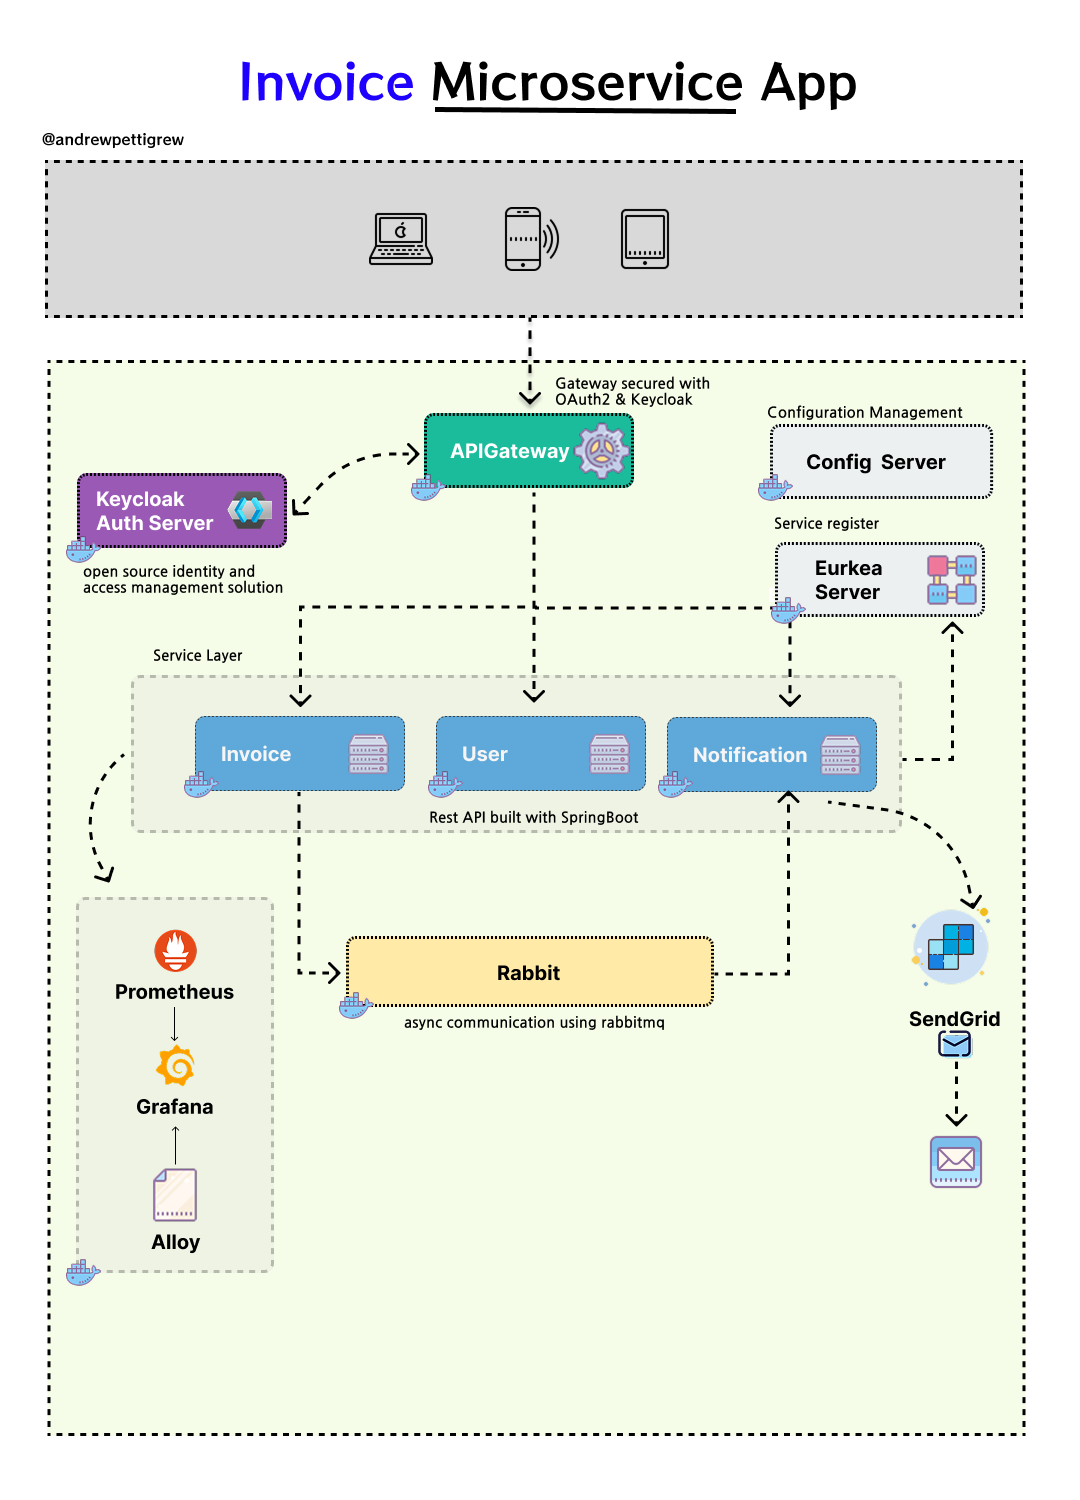
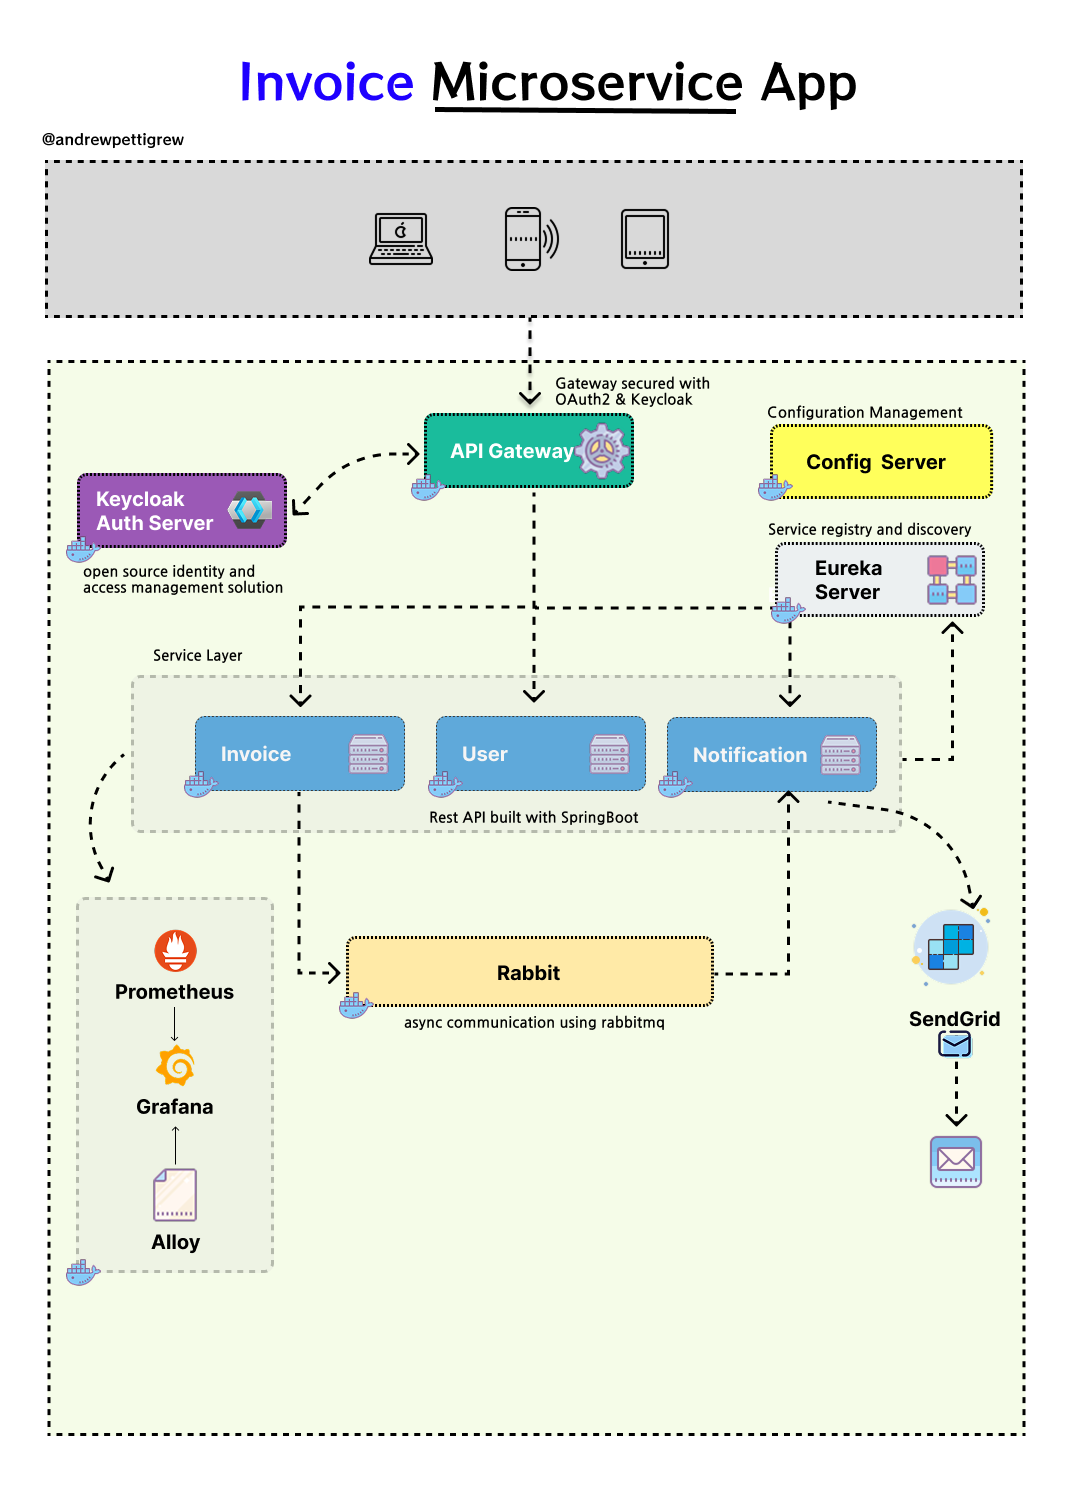
feat: implement the login route for the users

Changed region(s): [[0.7028, 0.276, 0.9167, 0.368], [0.4583, 0.276, 0.5194, 0.3067]]

diff --git a/user/src/main/java/com/apettigrew/user/services/UserService.java b/user/src/main/java/com/apettigrew/user/services/UserService.java
@@ -1,6 +1,7 @@
 package com.apettigrew.user.services;
 
 import com.apettigrew.user.config.KeycloakConfigProperties;
+import com.apettigrew.user.dtos.KeycloakTokenDto;
 import com.apettigrew.user.dtos.UserDto;
 import com.apettigrew.user.dtos.UserRegisterDto;
 import jakarta.ws.rs.core.Response;
@@ -16,7 +17,11 @@ import org.slf4j.LoggerFactory;
 import org.springframework.beans.factory.annotation.Autowired;
 import org.springframework.beans.factory.annotation.Qualifier;
 import org.springframework.data.domain.Pageable;
+import org.springframework.http.MediaType;
 import org.springframework.stereotype.Service;
+import org.springframework.util.LinkedMultiValueMap;
+import org.springframework.util.MultiValueMap;
+import org.springframework.web.client.RestClient;
 
 import java.util.ArrayList;
 import java.util.List;
@@ -28,13 +33,38 @@ public class UserService {
 
     private final Keycloak keycloak;
     private final KeycloakConfigProperties keycloakConfigProperties; // Inject config properties
+    private final RestClient restClient;
 
     @Autowired
     @Qualifier("skipNullModelMapper")
     private ModelMapper modelMapper;
 
+    public KeycloakTokenDto login(String username, String password) {
+
+        String tokenUrl = keycloakConfigProperties.getServerUrl() + "/realms/" + keycloakConfigProperties.getRealm() + "/protocol/openid-connect/token";
+
+        MultiValueMap<String, String> map = new LinkedMultiValueMap<>();
+        map.add("grant_type", "password");
+        map.add("client_id", keycloakConfigProperties.getAppClientId());
+        map.add("client_secret", keycloakConfigProperties.getAppClientSecret());
+        map.add("username", username);
+        map.add("password", password);
+        map.add("scope","openid email profile");
+        try {
+            var response =  restClient.post()
+                    .uri(tokenUrl)
+                    .contentType(MediaType.APPLICATION_FORM_URLENCODED)
+                    .body(map) // Send the MultiValueMap directly
+                    .retrieve()
+                    .toEntity(KeycloakTokenDto.class);
+
+            return response.getBody();
+        } catch (Exception e) {
+            throw new RuntimeException(e);
+        }
+    }
+
     public UserDto getKeycloakUserbyId(String id) {
-//        Keycloak keycloak = KeycloakConfig.getKeycloakInstance();
         UserRepresentation userRep = keycloak.realm(keycloakConfigProperties.getRealm()).users().get(id).toRepresentation();
         return modelMapper.map(userRep, UserDto.class);
     }
@@ -42,8 +72,6 @@ public class UserService {
     public List<UserDto> getAllUsers(Pageable pageable) {
         int first = (int) pageable.getOffset();
         int max = pageable.getPageSize();
-
-//        Keycloak keycloak = KeycloakConfig.getKeycloakInstance();
         List<UserRepresentation> userRepresentations = keycloak.realm(keycloakConfigProperties.getRealm()).users().list(first, max);
 
         List<UserDto> users = new ArrayList<>();
@@ -70,12 +98,11 @@ public class UserService {
         creds.add(cred);
         userRep.setCredentials(creds);
 
-//        Keycloak keycloak = KeycloakConfig.getKeycloakInstance();
         try  {
             Response response = keycloak.realm(keycloakConfigProperties.getRealm()).users().create(userRep);
             String userId = CreatedResponseUtil.getCreatedId(response);
             UserResource userResource = keycloak.realm(keycloakConfigProperties.getRealm()).users().get(userId);
-        }catch(Exception e){
+        } catch(Exception e){
             logger.error(e.getMessage());
             throw new RuntimeException(e.getMessage());
         }
@@ -83,13 +110,11 @@ public class UserService {
     }
 
     public UserDto getUserById(String id){
-//        Keycloak keycloak = KeycloakConfig.getKeycloakInstance();
         UserRepresentation userRep = keycloak.realm(keycloakConfigProperties.getRealm()).users().get(id).toRepresentation();
         return modelMapper.map(userRep, UserDto.class);
     }
 
     public UserDto updateUser(String id,UserDto userDto){
-//        Keycloak keycloak = KeycloakConfig.getKeycloakInstance();
         UserRepresentation userRep = keycloak.realm(keycloakConfigProperties.getRealm()).users().get(id).toRepresentation();
         userRep.setFirstName(userDto.getFirstName());
         userRep.setLastName(userDto.getLastName());

diff --git a/user/src/main/java/com/apettigrew/user/controllers/AuthController.java b/user/src/main/java/com/apettigrew/user/controllers/AuthController.java
@@ -1,0 +1,33 @@
+package com.apettigrew.user.controllers;
+
+import com.apettigrew.user.dtos.KeycloakTokenDto;
+import com.apettigrew.user.dtos.UserLoginDto;
+import com.apettigrew.user.jsonapi.JsonApiConstants;
+import com.apettigrew.user.jsonapi.requests.CreateRequest;
+import com.apettigrew.user.jsonapi.requests.UserLoginRequest;
+import com.apettigrew.user.services.UserService;
+import org.springframework.beans.factory.annotation.Autowired;
+import org.springframework.http.HttpStatus;
+import org.springframework.http.ResponseEntity;
+import org.springframework.validation.annotation.Validated;
+import org.springframework.web.bind.annotation.*;
+
+@RestController
+@RequestMapping(value = "/api", produces = JsonApiConstants.JSON_API_CONTENT_TYPE)
+@Validated
+public class AuthController {
+
+    @Autowired
+    private UserService userService;
+
+    @PostMapping("/login")
+    @ResponseStatus(code = HttpStatus.OK)
+    public ResponseEntity<KeycloakTokenDto> loginUsers(final @RequestBody @Validated CreateRequest<UserLoginRequest> loginRequest) {
+        UserLoginDto userLoginDto = loginRequest.getData().generateDto();
+        String username = userLoginDto.getUsername();
+        String password = userLoginDto.getPassword();
+
+        KeycloakTokenDto token = userService.login(username, password);
+        return new ResponseEntity<>(token,HttpStatus.OK);
+    }
+}

diff --git a/user/src/main/java/com/apettigrew/user/controllers/UserController.java b/user/src/main/java/com/apettigrew/user/controllers/UserController.java
@@ -6,13 +6,12 @@ import com.apettigrew.user.dtos.UserRegisterDto;
 import com.apettigrew.user.jsonapi.JsonApiConstants;
 import com.apettigrew.user.jsonapi.MultipleResourceResponse;
 import com.apettigrew.user.jsonapi.SingleResourceResponse;
-import com.apettigrew.user.jsonapi.resources.UserResource;
 import com.apettigrew.user.jsonapi.requests.CreateRequest;
 import com.apettigrew.user.jsonapi.requests.UpdateRequest;
 import com.apettigrew.user.jsonapi.requests.UserCreateRequest;
 import com.apettigrew.user.jsonapi.requests.UserUpdateRequest;
+import com.apettigrew.user.jsonapi.resources.UserResource;
 import com.apettigrew.user.services.UserService;
-import lombok.AllArgsConstructor;
 import org.slf4j.Logger;
 import org.slf4j.LoggerFactory;
 import org.springframework.beans.factory.annotation.Autowired;
@@ -29,7 +28,6 @@ import java.util.stream.Collectors;
 
 @RestController
 @RequestMapping(value = "/api", produces = JsonApiConstants.JSON_API_CONTENT_TYPE)
-@AllArgsConstructor
 @Validated
 public class UserController {
     @Autowired

diff --git a/user/src/main/java/com/apettigrew/user/config/KeycloakConfig.java b/user/src/main/java/com/apettigrew/user/config/KeycloakConfig.java
@@ -6,12 +6,18 @@ import org.keycloak.admin.client.Keycloak;
 import org.keycloak.admin.client.KeycloakBuilder;
 import org.springframework.context.annotation.Bean;
 import org.springframework.context.annotation.Configuration;
+import org.springframework.web.client.RestClient;
 
 @Configuration
 @RequiredArgsConstructor
 public class KeycloakConfig {
 
-    private final KeycloakConfigProperties keycloakConfigProperties;  // Inject properties
+    private final KeycloakConfigProperties keycloakConfigProperties;
+
+    @Bean
+    public RestClient restClient(RestClient.Builder builder, KeycloakConfigProperties keycloakConfigProperties) {
+        return builder.baseUrl(keycloakConfigProperties.getAuthServerUrl()).build();
+    }
 
     @Bean
     public Keycloak keycloak() {

diff --git a/user/src/main/java/com/apettigrew/user/dtos/KeycloakTokenDto.java b/user/src/main/java/com/apettigrew/user/dtos/KeycloakTokenDto.java
@@ -1,0 +1,31 @@
+package com.apettigrew.user.dtos;
+
+import com.fasterxml.jackson.annotation.JsonProperty;
+import lombok.Getter;
+import lombok.Setter;
+
+@Getter
+@Setter
+public class KeycloakTokenDto {
+    @JsonProperty("access_token")
+    private String accessToken;
+
+    @JsonProperty("expires_in")
+    private int expiresIn;
+
+    @JsonProperty("refresh_token")
+    private String refreshToken;
+
+    @JsonProperty("refresh_expires_in")
+    private int refreshExpiresIn;
+
+    @JsonProperty("token_type")
+    private String tokenType;
+
+    @JsonProperty("not-before-policy")
+    private int notBeforePolicy;
+
+    @JsonProperty("session_state")
+    private String sessionState;
+    private String scope;
+}

diff --git a/user/src/main/java/com/apettigrew/user/config/KeycloakConfigProperties.java b/user/src/main/java/com/apettigrew/user/config/KeycloakConfigProperties.java
@@ -15,5 +15,8 @@ public class KeycloakConfigProperties {
     private String clientId;
     private String userName;
     private String password;
+    private String appClientId;
+    private String appClientSecret;
+    private String authServerUrl;
 }
 
